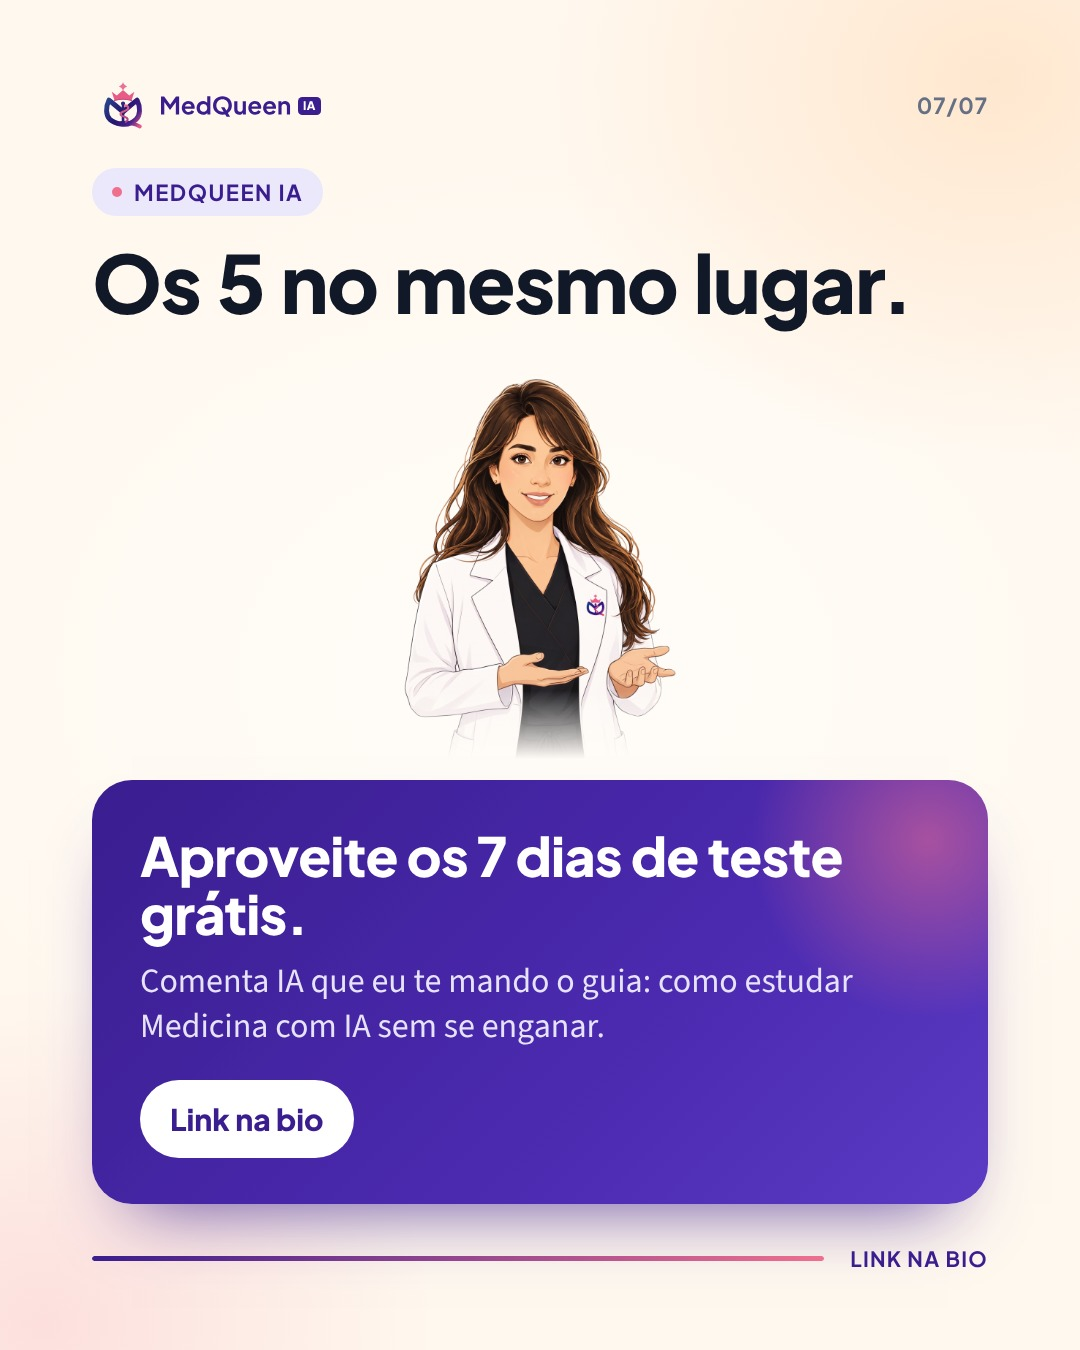
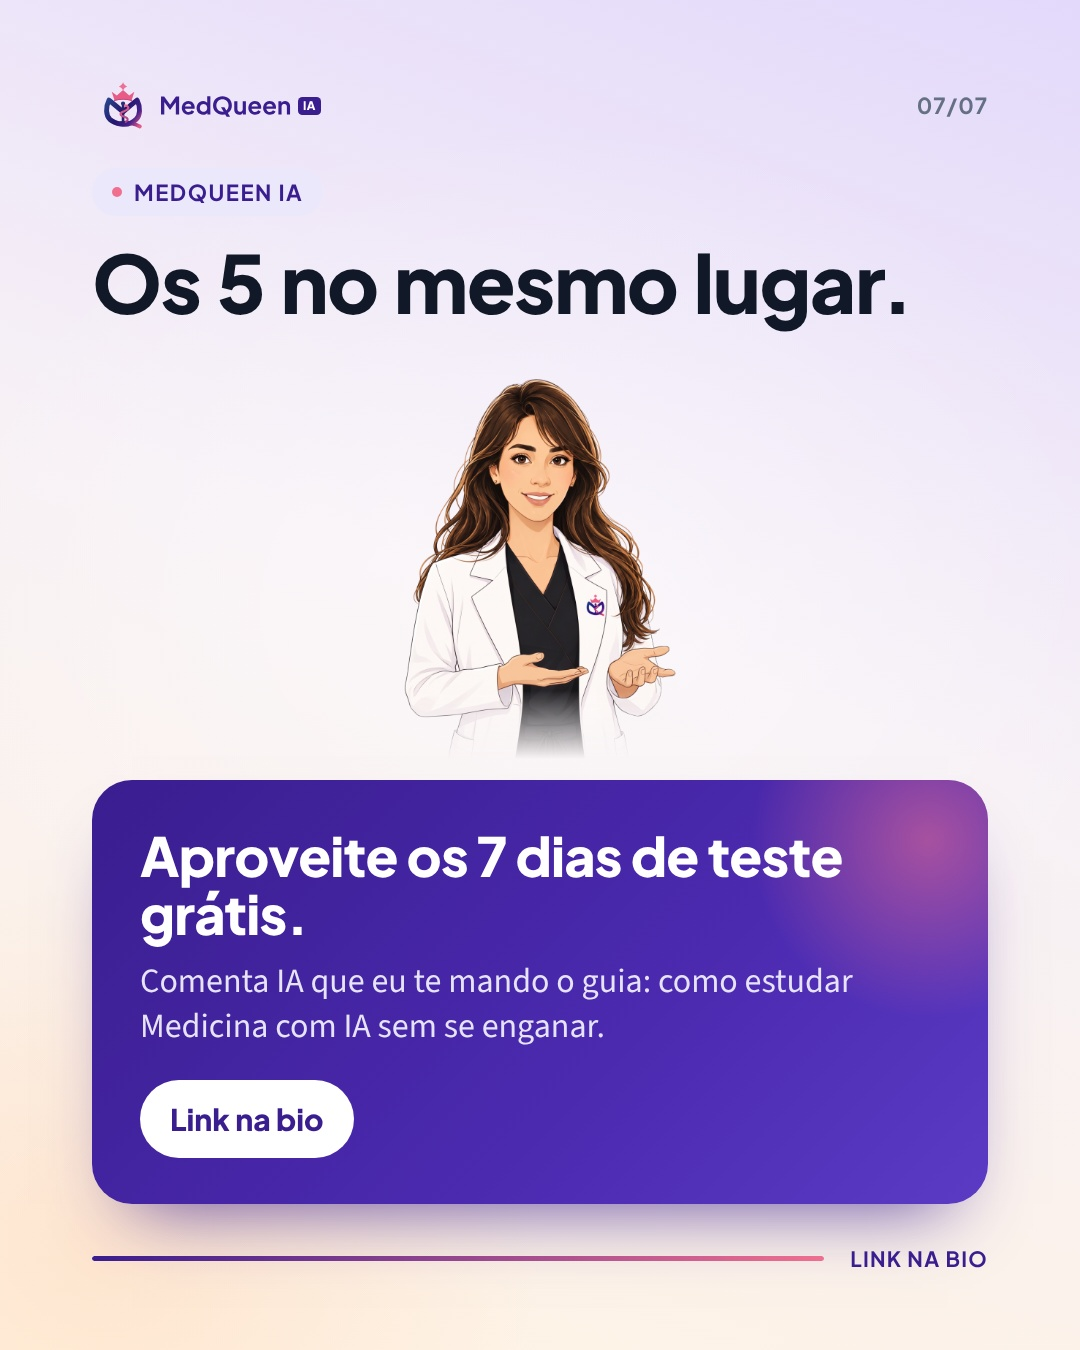
Feed da semana de 26/10 com fundo em gradiente roxo claro até creme
Claude-Session: https://claude.ai/code/session_013Zy1s45GU63BmCHxT5kqzd

Changed region(s): [[0.6417, 0.0, 1.0, 0.2489], [0.4889, 0.0, 0.5194, 0.0311]]

diff --git a/motor/carrossel.py b/motor/carrossel.py
@@ -99,14 +99,14 @@ ul.lista li b{{font-weight:700}}
 .story .nota{{font-size:44px;padding:36px 40px}} .story .sub{{font-size:44px}}
 .story .balao{{font-size:50px;max-width:880px;padding:40px 44px}} .story .olho{{font-size:28px}}
 /* fundos claros variados (pedido do Matheus 25/10/2026: variar o fundo; fundo escuro proibido) */
-body.f-lavanda{{background:#F6F5FC}}
-body.f-creme{{background:#FFF8EF}} body.f-creme .fundo{{background:radial-gradient(640px 540px at 92% 6%,rgba(255,196,140,.32),transparent 70%),radial-gradient(560px 480px at 4% 98%,rgba(240,111,143,.18),transparent 70%),radial-gradient(900px 700px at 50% 50%,#FFFDF9 0%,rgba(255,253,249,0) 75%)}}
-body.f-rosa{{background:#FDEFF4}} body.f-rosa .fundo{{background:radial-gradient(640px 540px at 90% 8%,rgba(240,111,143,.30),transparent 70%),radial-gradient(600px 500px at 6% 96%,rgba(158,140,240,.24),transparent 70%),radial-gradient(900px 700px at 50% 50%,#FFF8FA 0%,rgba(255,248,250,0) 75%)}}
-body.f-menta{{background:#EEF8F3}} body.f-menta .fundo{{background:radial-gradient(640px 540px at 92% 6%,rgba(110,214,170,.30),transparent 70%),radial-gradient(560px 480px at 4% 98%,rgba(158,140,240,.22),transparent 70%),radial-gradient(900px 700px at 50% 50%,#FAFFFC 0%,rgba(250,255,252,0) 75%)}}
-body.f-ceu{{background:#EEF4FE}} body.f-ceu .fundo{{background:radial-gradient(660px 560px at 90% 6%,rgba(110,160,250,.30),transparent 70%),radial-gradient(560px 480px at 4% 98%,rgba(240,111,143,.16),transparent 70%),radial-gradient(900px 700px at 50% 50%,#FAFCFF 0%,rgba(250,252,255,0) 75%)}}
-body.f-lilas{{background:#E9E3FB}} body.f-lilas .fundo{{background:radial-gradient(700px 600px at 88% 8%,rgba(140,110,240,.38),transparent 70%),radial-gradient(600px 500px at 6% 96%,rgba(240,111,143,.26),transparent 70%),radial-gradient(800px 640px at 50% 52%,rgba(255,255,255,.75) 0%,rgba(255,255,255,0) 75%)}}
-body.f-pessego{{background:#FFF1EA}} body.f-pessego .fundo{{background:radial-gradient(640px 540px at 92% 6%,rgba(255,150,120,.26),transparent 70%),radial-gradient(560px 480px at 4% 98%,rgba(158,140,240,.20),transparent 70%),radial-gradient(900px 700px at 50% 50%,#FFFAF7 0%,rgba(255,250,247,0) 75%)}}
-body.f-branco{{background:#FFFFFF}} body.f-branco .fundo{{background:radial-gradient(#E9E5F7 2px,transparent 2.5px) 0 0/34px 34px,radial-gradient(640px 540px at 92% 6%,rgba(158,140,240,.18),transparent 70%);-webkit-mask-image:linear-gradient(#000,rgba(0,0,0,.35))}}
+body.f-lavanda{{background:linear-gradient(165deg,#DDD2FA 0%,#F1ECFC 46%,#FFF6EA 100%)}} body.f-lavanda .fundo{{background:radial-gradient(620px 520px at 8% 96%,rgba(240,111,143,.16),transparent 70%),radial-gradient(900px 700px at 50% 45%,rgba(255,255,255,.45) 0%,rgba(255,255,255,0) 70%)}}
+body.f-creme{{background:linear-gradient(200deg,#E3D9FB 0%,#F7F1F6 46%,#FFF3E2 100%)}} body.f-creme .fundo{{background:radial-gradient(620px 520px at 10% 92%,rgba(255,180,130,.22),transparent 70%),radial-gradient(900px 700px at 50% 45%,rgba(255,255,255,.45) 0%,rgba(255,255,255,0) 70%)}}
+body.f-lilas{{background:linear-gradient(135deg,#D6C9F8 0%,#EEE6FB 46%,#FFF4E8 100%)}} body.f-lilas .fundo{{background:radial-gradient(620px 520px at 92% 94%,rgba(240,111,143,.20),transparent 70%),radial-gradient(900px 700px at 50% 45%,rgba(255,255,255,.45) 0%,rgba(255,255,255,0) 70%)}}
+body.f-menta{{background:linear-gradient(180deg,#E0D6FA 0%,#F3EFFA 46%,#FDF6EC 100%)}} body.f-menta .fundo{{background:radial-gradient(620px 520px at 90% 90%,rgba(110,214,170,.20),transparent 70%),radial-gradient(900px 700px at 50% 45%,rgba(255,255,255,.45) 0%,rgba(255,255,255,0) 70%)}}
+body.f-rosa{{background:linear-gradient(150deg,#DCCFF9 0%,#F7E9F1 46%,#FFF5EA 100%)}} body.f-rosa .fundo{{background:radial-gradient(620px 520px at 12% 90%,rgba(240,111,143,.24),transparent 70%),radial-gradient(900px 700px at 50% 45%,rgba(255,255,255,.45) 0%,rgba(255,255,255,0) 70%)}}
+body.f-ceu{{background:linear-gradient(120deg,#D9D0FA 0%,#EEF0FD 46%,#FFF7EC 100%)}} body.f-ceu .fundo{{background:radial-gradient(620px 520px at 88% 92%,rgba(110,160,250,.20),transparent 70%),radial-gradient(900px 700px at 50% 45%,rgba(255,255,255,.45) 0%,rgba(255,255,255,0) 70%)}}
+body.f-pessego{{background:linear-gradient(210deg,#E1D6FA 0%,#FBEEEC 46%,#FFF1E2 100%)}} body.f-pessego .fundo{{background:radial-gradient(620px 520px at 10% 94%,rgba(255,150,120,.22),transparent 70%),radial-gradient(900px 700px at 50% 45%,rgba(255,255,255,.45) 0%,rgba(255,255,255,0) 70%)}}
+body.f-branco{{background:linear-gradient(175deg,#E6DEFB 0%,#FAF8FD 46%,#FFFAF2 100%)}} body.f-branco .fundo{{background:radial-gradient(620px 520px at 90% 92%,rgba(158,140,240,.14),transparent 70%),radial-gradient(900px 700px at 50% 45%,rgba(255,255,255,.45) 0%,rgba(255,255,255,0) 70%)}}
 /* final */
 .cartao{{margin-top:auto;background:linear-gradient(135deg,var(--roxo),#4B2AB0 60%,#5B3BC4);color:#fff;border-radius:40px;padding:46px 48px;position:relative;overflow:hidden;box-shadow:0 40px 70px -40px rgba(58,29,143,.8)}}
 .cartao:after{{content:"";position:absolute;right:-120px;top:-120px;width:360px;height:360px;border-radius:50%;background:radial-gradient(circle,rgba(240,111,143,.55),transparent 70%)}}
